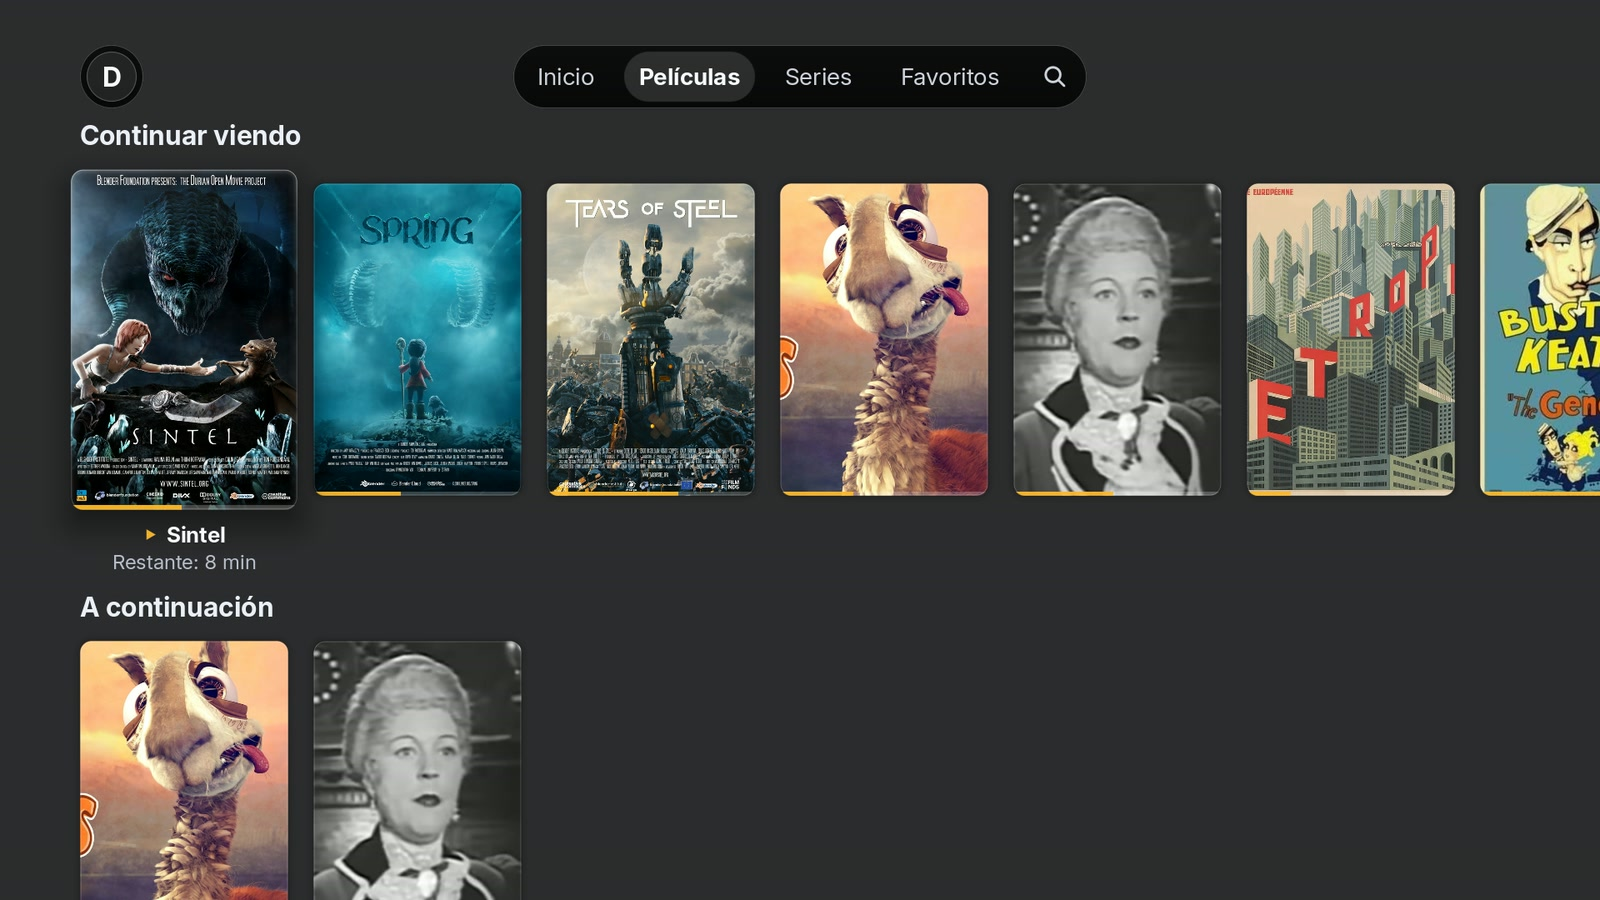
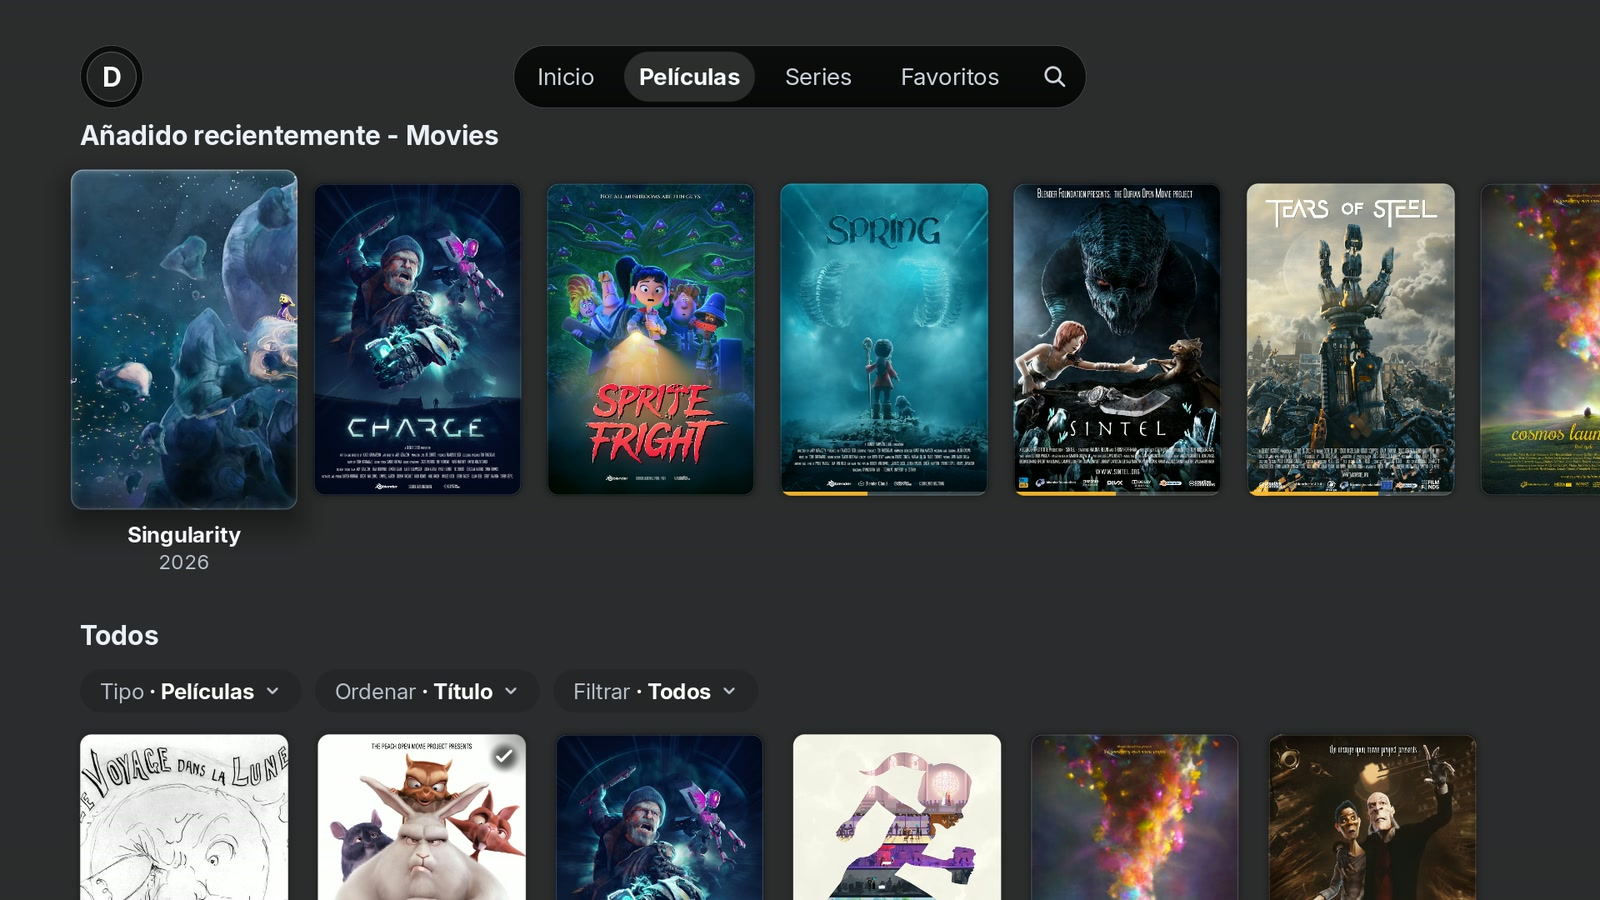
fix(library): keep Home's global shelves out of sections (#270) (#274)
A Movies or Shows section used to inherit Continue Watching and Next Up from the projected Home catalog. Admit only the section's own latest shelf and its All grid, while preserving Home and the free-form shelf ids used by test seeds. Verified with a unit regression test and a fresh Library capture.

diff --git a/rust-modules/src/screens/library/mod.rs b/rust-modules/src/screens/library/mod.rs
@@ -190,6 +190,16 @@ pub(crate) struct LibraryScreen {
     plaintext_alert: super::plaintext_question::PlaintextAlert,
 }
 
+fn shelf_allowed_for_section(id: &str, wanted_latest: Option<&str>) -> bool {
+    // These two hubs belong to Home's whole-server view. A section publishes only its own latest
+    // shelf and the All grid, not Home's Continue Watching or Next Up. Keep accepting the
+    // free-form ids used by test seeds, and reject a different view's `jf.latest.*` as before.
+    if id == "home.continue" || id == "jf.nextup" {
+        return false;
+    }
+    !id.starts_with("jf.latest.") || Some(id) == wanted_latest
+}
+
 impl LibraryScreen {
     pub(crate) fn new(entry: EntryId, instance: InstanceId, kind: SecKind) -> Self {
         let layout = Layout::new(false, &[], 0, false);
@@ -385,9 +395,7 @@ impl LibraryScreen {
                 let wanted = crate::jellyfin::browse::view_for_key(section.key)
                     .map(|guid| format!("jf.latest.{guid}"));
                 for (index, shelf) in hubs.shelves().iter().enumerate() {
-                    // Catalog shelves carry a `jf.latest.<view id>` id: keep only this section's.
-                    // Continue Watching has no view, and test seeds use free-form ids.
-                    if shelf.id.starts_with("jf.latest.") && Some(shelf.id.as_str()) != wanted.as_deref() { continue; }
+                    if !shelf_allowed_for_section(&shelf.id, wanted.as_deref()) { continue; }
                     if self.shelves.len() >= MAX_SHELVES { break; }
                     let group = GroupId(self.keys.register(
                         LibraryIdentity::Control { section: section.clone(), kind: "shelf-group".into(), key: shelf.id.clone() },

diff --git a/rust-modules/src/screens/library/tests.rs b/rust-modules/src/screens/library/tests.rs
@@ -1237,6 +1237,19 @@ fn the_page_glyph_and_the_librarys_live_tab_strip_never_overlap() {
     assert_eq!(glyph.h, StatusOverlay::GLYPH_SIZE, "without a live strip the glyph keeps its natural, unshrunk size");
 }
 
+#[test]
+fn global_home_shelves_never_enter_a_library_section() {
+    assert!(!shelf_allowed_for_section("home.continue", Some("jf.latest.movies")),
+        "Home's whole-server deck is not a Movies shelf");
+    assert!(!shelf_allowed_for_section("jf.nextup", Some("jf.latest.shows")),
+        "Home's Next Up is not a Shows shelf");
+    assert!(shelf_allowed_for_section("jf.latest.movies", Some("jf.latest.movies")));
+    assert!(!shelf_allowed_for_section("jf.latest.shows", Some("jf.latest.movies")),
+        "another view's latest shelf stays out");
+    assert!(shelf_allowed_for_section("s0", Some("jf.latest.movies")),
+        "free-form ids used by test seeds keep working");
+}
+
 mod type_tests { include!("type_tests.rs"); }
 
 mod art_admission_tests { include!("art_admission_tests.rs"); }
